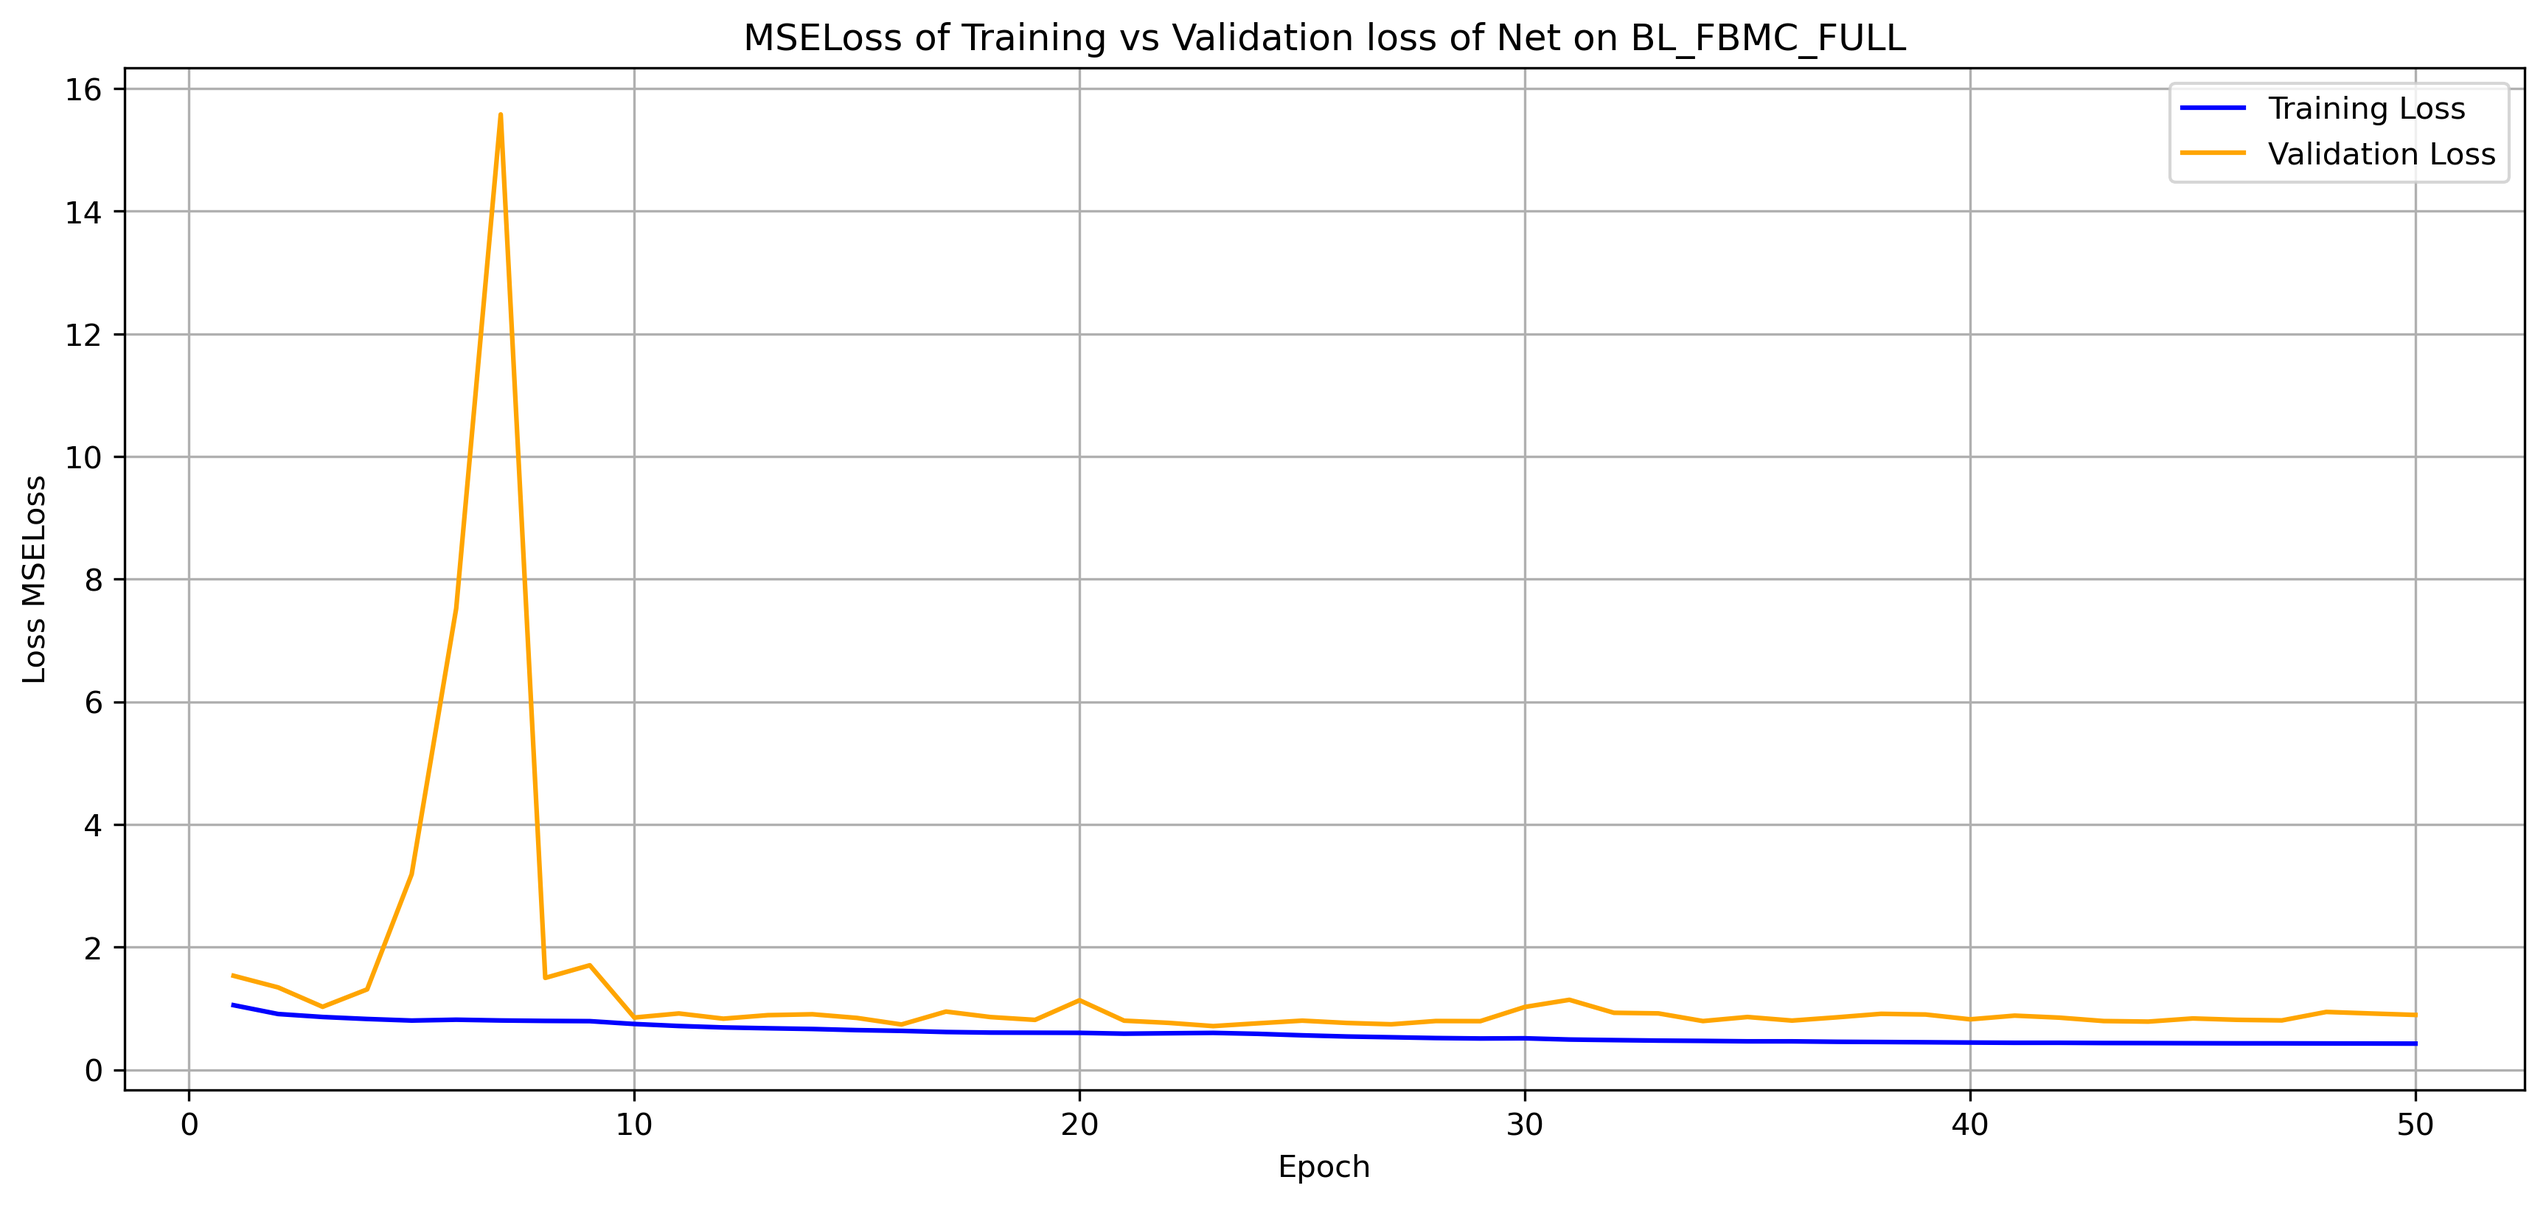
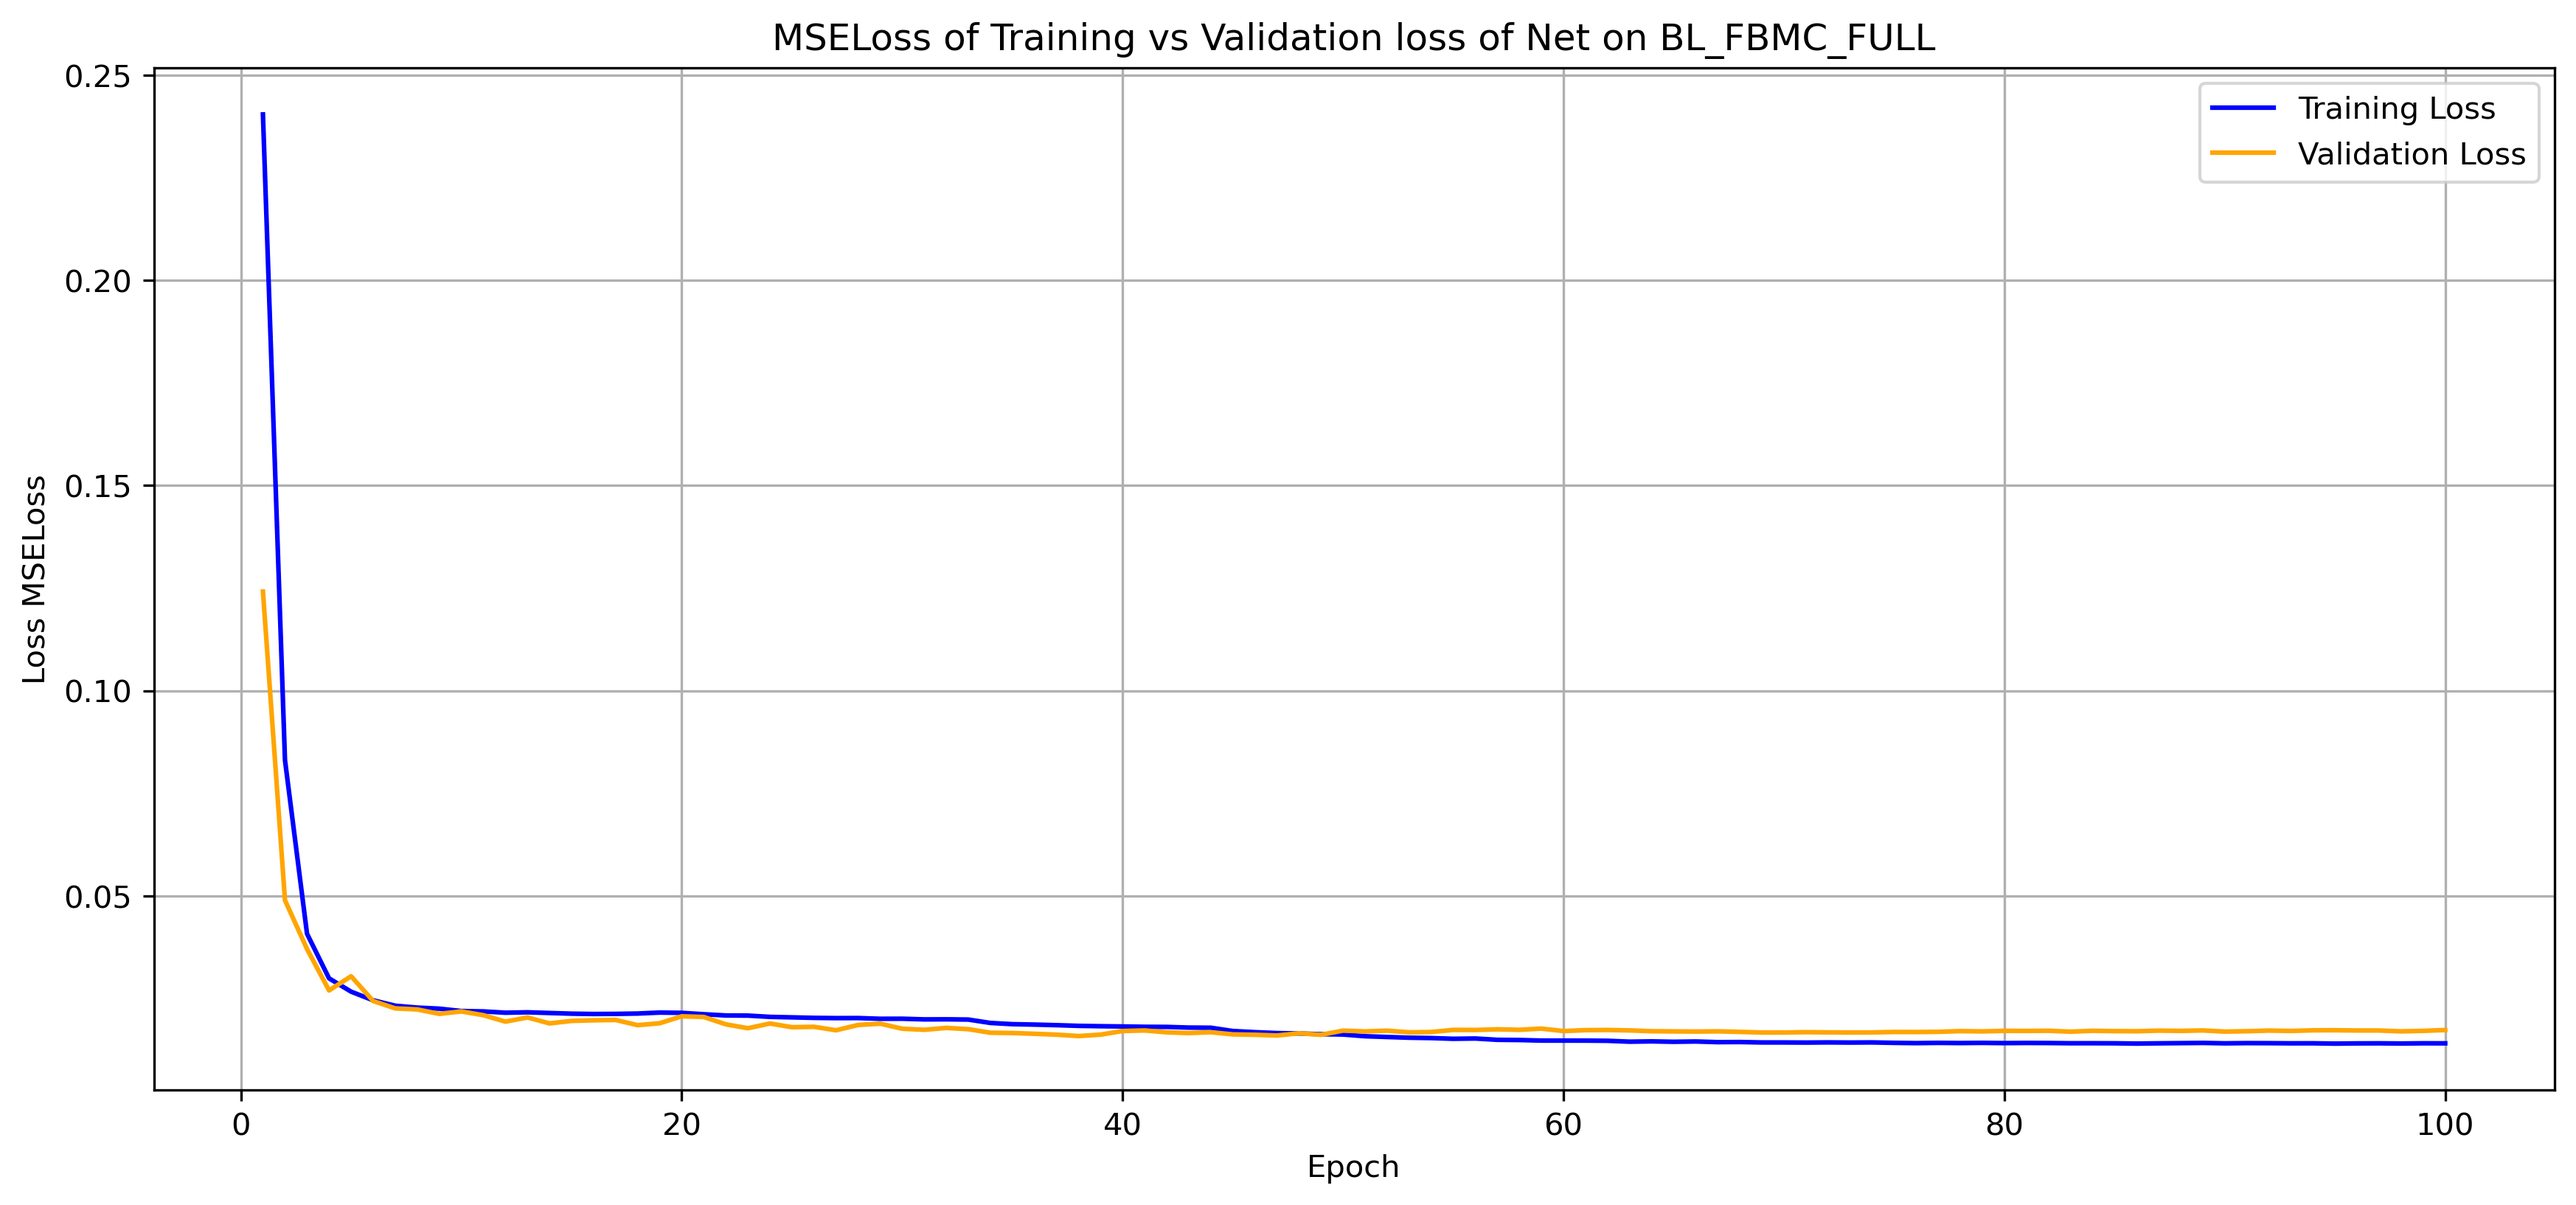
added scaler, changed net

diff --git a/src/train_FBMC.py b/src/train_FBMC.py
@@ -7,7 +7,7 @@ import torch.nn as nn
 import matplotlib.pyplot as plt
 import torch.optim as optim
 from torch.utils.data import TensorDataset, DataLoader, Dataset
-from sklearn.preprocessing import StandardScaler
+from sklearn.preprocessing import StandardScaler, MinMaxScaler, Normalizer
 from model import get_model
 from sklearn.metrics import r2_score, mean_absolute_error
 from sklearn.ensemble import RandomForestRegressor
@@ -24,22 +24,23 @@ LOOP_TRAINING = True
 BORDER_TYPE = "MAXBEX"
 
 DATASET_LOOP = ["BL_FBMC_FULL"]
-MODEL_LOOP = ["Net"]
+MODEL_LOOP = ["LSTM"]
 CRITERIA_LOOP = [
     (nn.MSELoss, "MSELoss")
 ]
+SCALER = StandardScaler
 
 TRAIN_SPLIT = 0.90
-VALID_SPLIT = 0.25
-BATCH_SIZE = 64
-EPOCHS = 50
+VALID_SPLIT = 0.20
+BATCH_SIZE = 128
+EPOCHS = 100
 WEIGHT_DECAY = 3e-3
 LEARNING_RATE = 3e-4
 SEED = 42
-PCA_COMP = 64
-SEQ_LEN = 24
+PCA_COMP = 128
+SEQ_LEN = 8
 
-USE_PCA = False
+USE_PCA = True
 USE_RF_ONLY = False
 MAKE_PLOTS = True
 SHOW_PLOTS = False
@@ -250,11 +251,11 @@ def main(TRAINING_SET, MODEL_NAME, CRITERION_CLASS, border):
         X_train = pca.fit_transform(X_train)
         X_val = pca.transform(X_val)
     else:
-        X_scaler = StandardScaler()
+        X_scaler = SCALER()
         X_train = X_scaler.fit_transform(X_train)
         X_val = X_scaler.transform(X_val)
 
-    Y_scaler = StandardScaler()
+    Y_scaler = SCALER()
     Y_train = Y_scaler.fit_transform(Y_train)
     Y_val = Y_scaler.transform(Y_val)
 
@@ -294,7 +295,7 @@ def main(TRAINING_SET, MODEL_NAME, CRITERION_CLASS, border):
     best_val_r2 = -np.inf 
 
     if USE_PCA:
-        print(f"\n PCA ENABLED: Reduction from {input_dim} dim. to {PCA_COMP} dim. before feeding into Train Loop\n")
+        print(f"\n PCA ENABLED: Reduction to {PCA_COMP} dim. before feeding into Train Loop\n")
     else:
         print("\n PCA DISABLED\n")
     if MODEL_NAME == 'LSTM':

diff --git a/src/model.py b/src/model.py
@@ -28,18 +28,11 @@ class Net(nn.Module):
 
         self.fc3 = nn.Linear(input_dim, input_dim)
         self.batch_norm3 = nn.BatchNorm1d(input_dim)
-        self.dropout3 = nn.Dropout(p=0.2)
 
         self.fc4 = nn.Linear(input_dim, input_dim)
         self.batch_norm4 = nn.BatchNorm1d(input_dim)
 
-        self.fc5 = nn.Linear(input_dim, input_dim)
-        self.batch_norm5 = nn.BatchNorm1d(input_dim)
-
-        self.fc6 = nn.Linear(input_dim, input_dim)
-        self.batch_norm6 = nn.BatchNorm1d(input_dim)
-
-        self.fc7 = nn.Linear(input_dim, output_dim)
+        self.fc5 = nn.Linear(input_dim, output_dim)
 
     def forward(self, x):
         x = torch.nn.functional.leaky_relu(self.fc1(x), negative_slope=0.01)
@@ -52,22 +45,15 @@ class Net(nn.Module):
 
         x = torch.nn.functional.leaky_relu(self.fc3(x), negative_slope=0.01)
         x = self.batch_norm3(x)
-        x = self.dropout3(x)
 
         x = torch.nn.functional.leaky_relu(self.fc4(x), negative_slope=0.01)
         x = self.batch_norm4(x)
 
-        x = torch.nn.functional.leaky_relu(self.fc5(x), negative_slope=0.01)
-        x = self.batch_norm5(x)
-
-        x = torch.nn.functional.leaky_relu(self.fc6(x), negative_slope=0.01)
-        x = self.batch_norm6(x)
-
-        x = self.fc7(x)
+        x = self.fc5(x)
         return x
 
 class LSTM(nn.Module):
-    def __init__(self, input_dim, output_dim, hidden_dim=64, num_layers=2, dropout=0.15):
+    def __init__(self, input_dim, output_dim, hidden_dim=128, num_layers=3, dropout=0.15):
         super(LSTM, self).__init__()
 
         self.hidden_dim = hidden_dim
